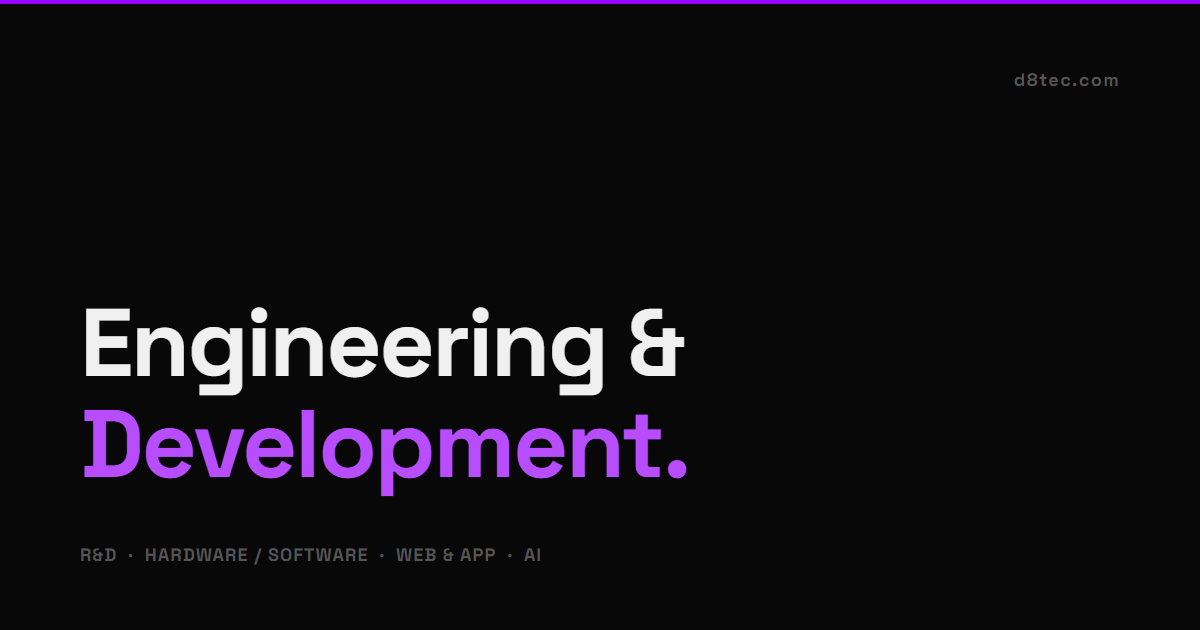
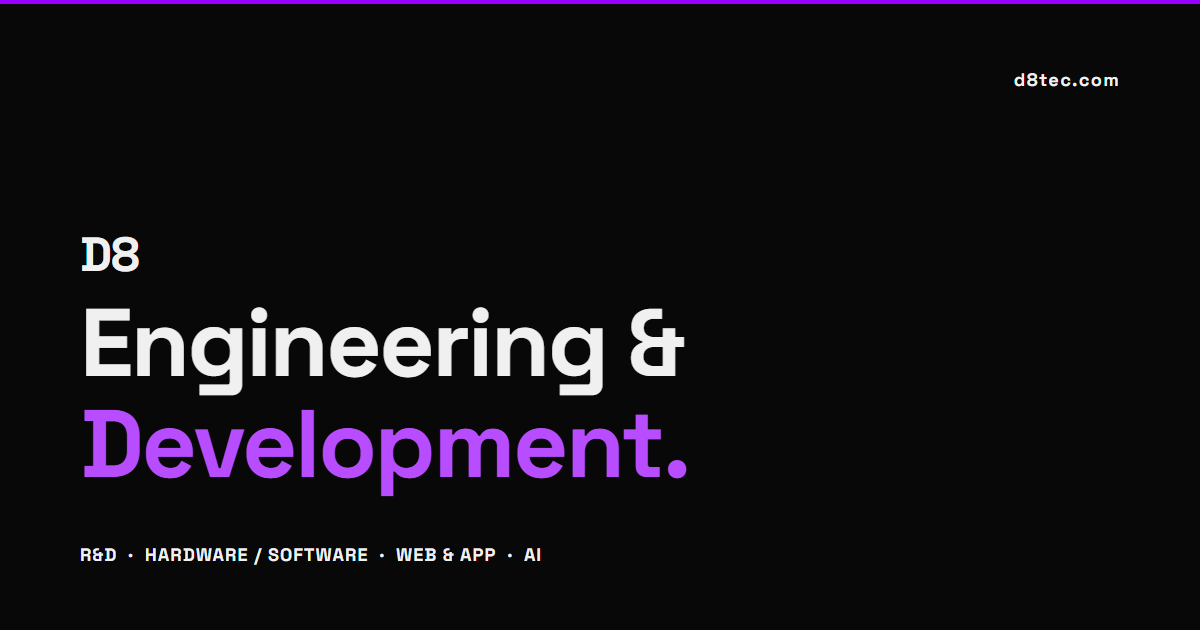
chore(wip): claude snapshot [2026-05-10T02-15-15-430Z] on main

Changed region(s): [[0.0617, 0.8444, 0.4625, 0.9048], [0.0617, 0.3619, 0.1233, 0.4524], [0.8325, 0.1206, 0.925, 0.1508]]

diff --git a/public/og-preview.html b/public/og-preview.html
@@ -25,9 +25,16 @@
     .domain {
       display: flex;
       justify-content: flex-end;
-      color: #555555;
+      color: #f0f0f0;
       font-size: 18px;
       letter-spacing: 0.08em;
+    }
+    .d8-label {
+      font-size: 48px;
+      font-weight: 700;
+      color: #f0f0f0;
+      letter-spacing: -0.02em;
+      margin-bottom: 8px;
     }
     .line1 {
       font-size: 96px;
@@ -46,7 +53,7 @@
     }
     .tags {
       font-size: 18px;
-      color: #555555;
+      color: #f0f0f0;
       letter-spacing: 0.06em;
     }
   </style>
@@ -56,6 +63,7 @@
   <div class="content">
     <div class="domain">d8tec.com</div>
     <div>
+      <div class="d8-label">D8</div>
       <div class="line1">Engineering &amp;</div>
       <div class="line2">Development.</div>
       <div class="tags">R&amp;D &nbsp;·&nbsp; HARDWARE / SOFTWARE &nbsp;·&nbsp; WEB &amp; APP &nbsp;·&nbsp; AI</div>
